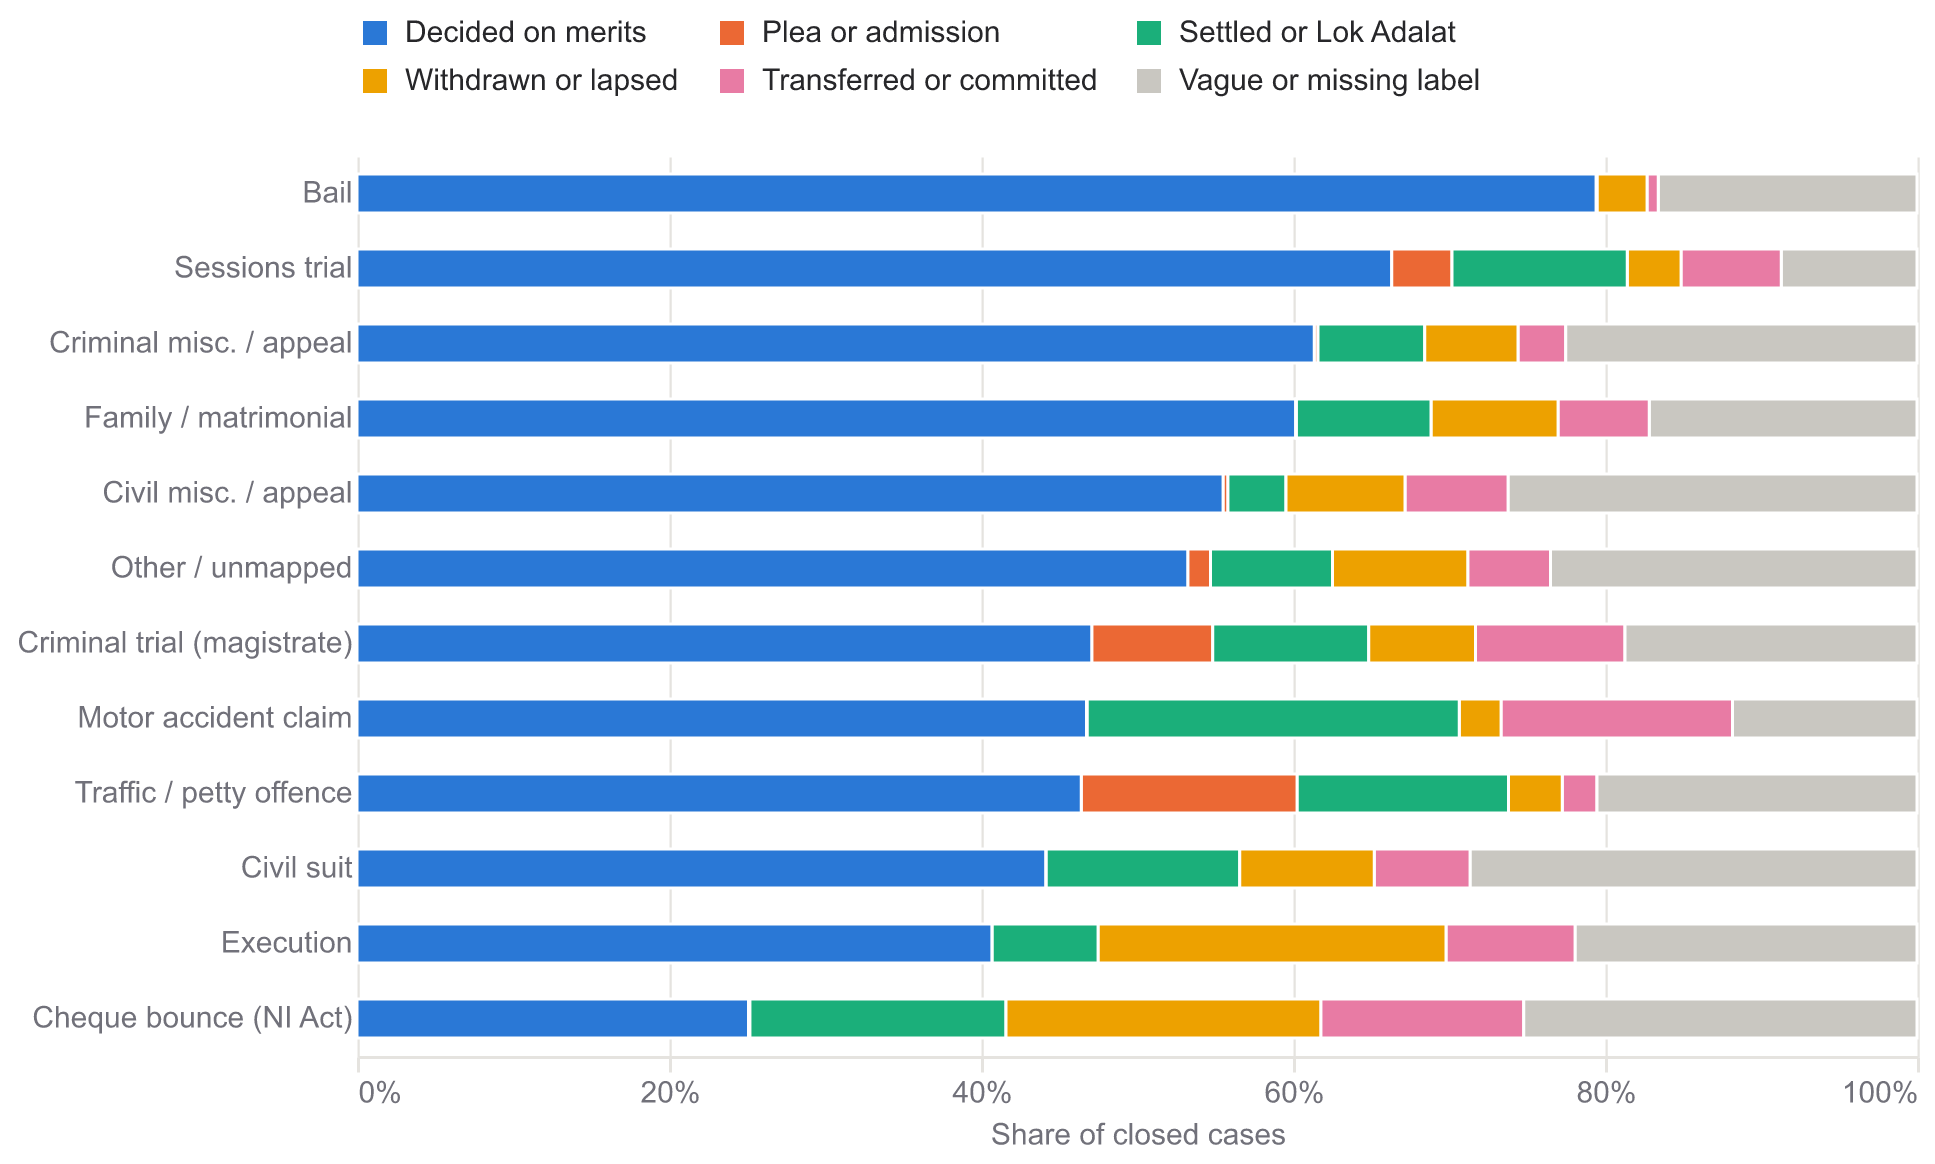
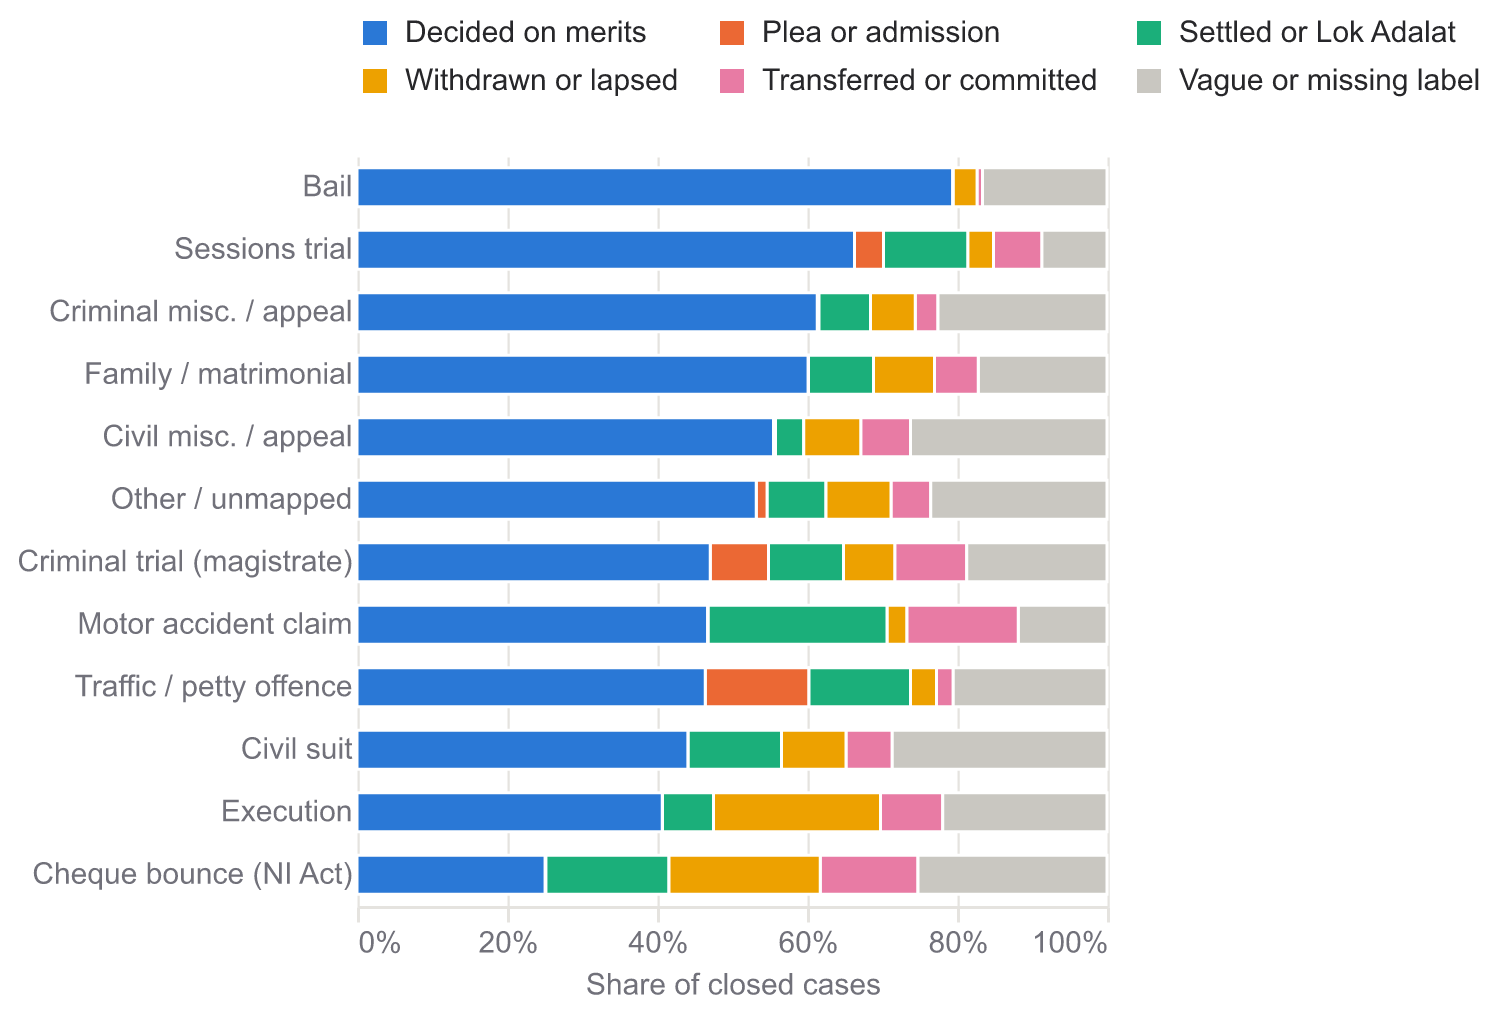
Size the newest charts to match the others

diff --git a/pipeline/brief.py b/pipeline/brief.py
@@ -71,11 +71,11 @@ def export_charts(figures: dict) -> dict[str, tuple[Path, float]]:
     add("coverage_cliff", C.decisions_cliff(monthly, width=660, height=105), 720, 135)
     # Not in the two-page brief, but used by the README and the shareable page.
     outcomes = read("q8_outcomes")
-    add("q8_outcomes", C.outcome_stacks(outcomes[outcomes["dimension"] == "Case category"], width=520, height=300), 660, 370)
+    add("q8_outcomes", C.outcome_stacks(outcomes[outcomes["dimension"] == "Case category"], width=250, height=250), 340, 330)
     hearing = read("q9_first_hearing")
-    add("q9_first_hearing", C.first_hearing_bars(hearing[(hearing["dimension"] == "State") & (hearing["n"] >= 200_000)], width=480, height=400), 660, 460)
+    add("q9_first_hearing", C.first_hearing_bars(hearing[(hearing["dimension"] == "State") & (hearing["n"] >= 200_000)], width=240, height=330), 340, 370)
     model = read("model_hazard_ratios")
-    add("q10_model", C.hazard_forest(model[model["group"] == "State"], width=480), 660, 500)
+    add("q10_model", C.hazard_forest(model[model["group"] == "State"], width=220, height=380), 340, 420)
     return out
 
 
